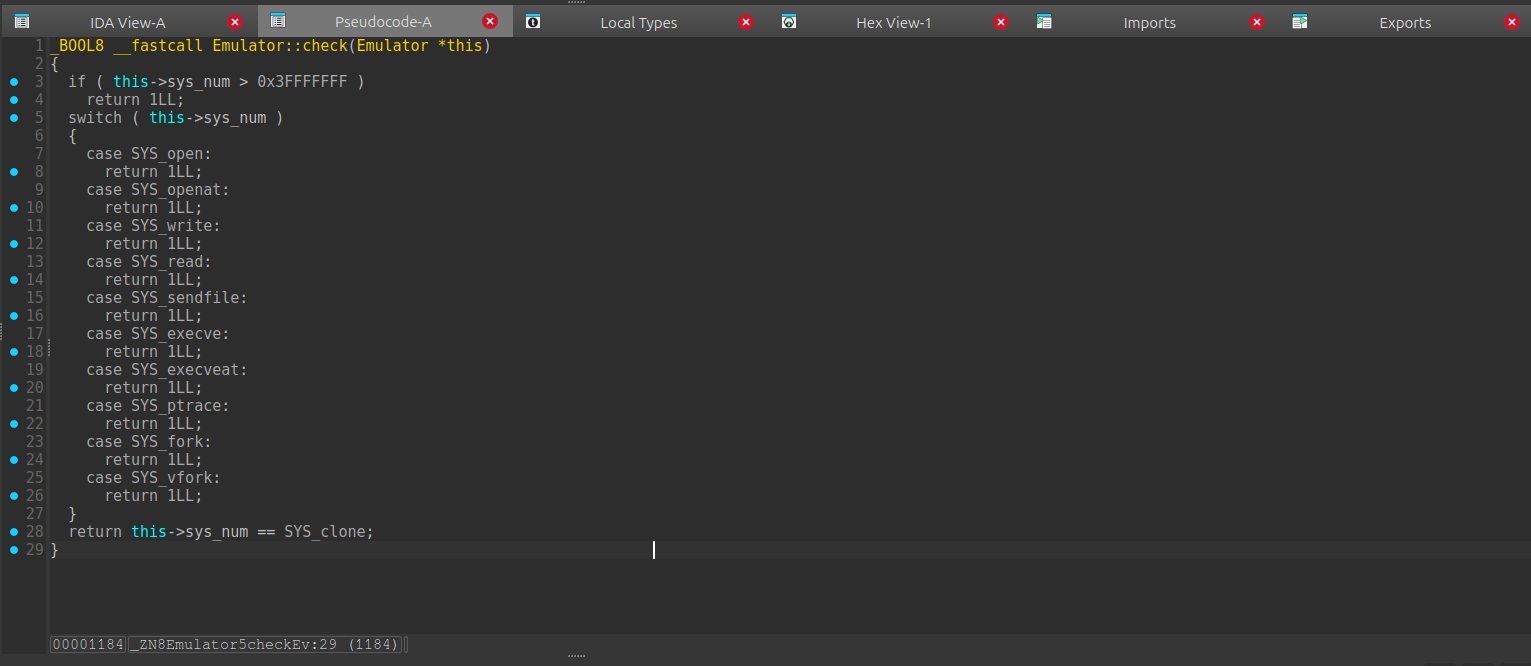
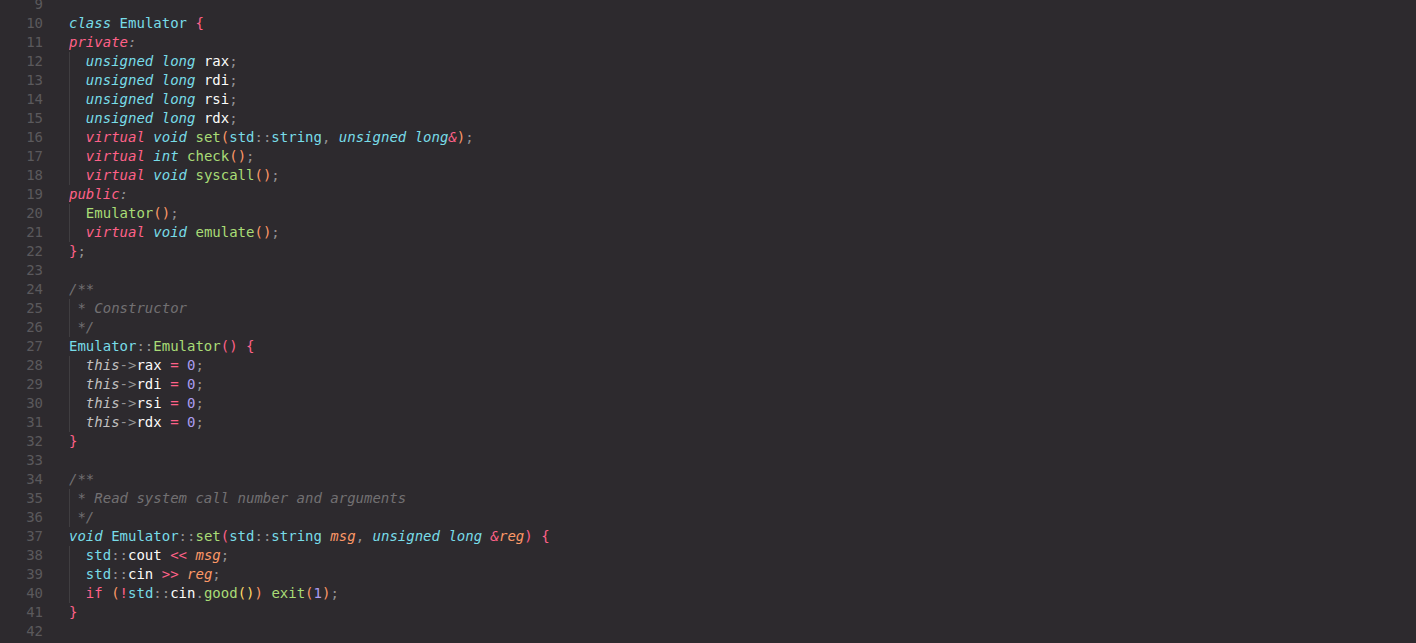
zeropts

Changed region(s): [[0.0, 0.0, 1.0, 0.9953]]

diff --git a/_posts/2025-05-29-syscall-kit.md b/_posts/2025-05-29-syscall-kit.md
@@ -1,6 +1,6 @@
 ---
 title: Syscall Kit 
-date: 2026-05-29 03:00:00 +0000
+date: 2026-05-29 09:00:00 +0000
 categories: [CTF, Upsolve]
 tags: [pwnable]
 math: true
@@ -10,7 +10,7 @@ image:
   path: preview.png
 ---
 
-## Zer0pts 2020 - Syscall Kit
+## zer0pts 2020 - Syscall Kit
 
 ### Overview
 